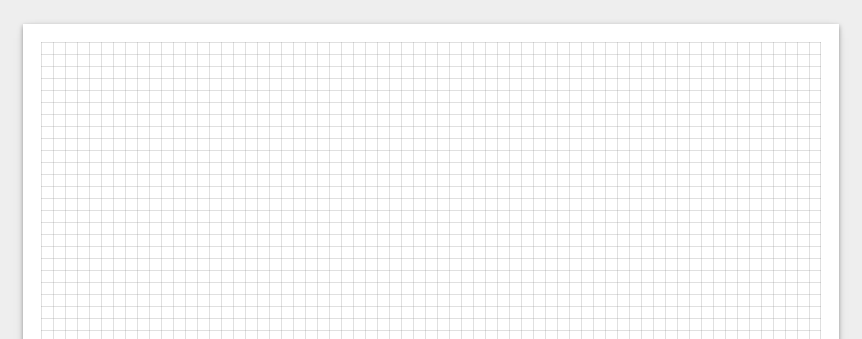
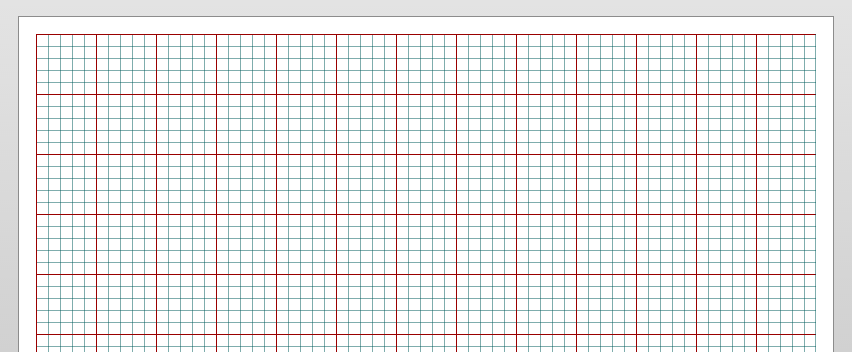
feat(minorGridColor, majorGridColor): add attributes to set grid line color for minor and major grid lines Closes #7

Changed region(s): [[0.0, 0.0295, 1.0, 1.0]]

diff --git a/lib/src/graph_paper/graph_paper.dart b/lib/src/graph_paper/graph_paper.dart
@@ -40,6 +40,18 @@ import 'package:polymer/polymer.dart';
  *    directions) before a major grid line is drawn. The origin starts in the 
  *    upper, left-hand corner of the grid. Major grid lines are represented, by 
  *    default, by a thicker line than their minor grid counterparts.
+ * 
+ *  minorGridColor [String] By default, the minor grid is `gray`. Controls the 
+ *    color of the minor grid lines. This attribute can be any color or color
+ *    designation that is valid in CSS (for example, `red`, `#990000`, 
+ *    `rgb(255,0,0)`, `rgba(255,0,0,0.2)`, `hsl(120,100%,50%)`...etc.).
+ *    Note that CMYK color functions are not supported in any current browser.
+ * 
+ *  majorGridColor [String] By default, the major grid is `gray`. Controls the 
+ *    color of the major grid lines. This attribute can be any color or color
+ *    designation that is valid in CSS (for example, `red`, `#990000`, 
+ *    `rgb(255,0,0)`, `rgba(255,0,0,0.2)`, `hsl(120,100%,50%)`...etc.).
+ *    Note that CMYK color functions are not supported in any current browser.
  */
 @CustomTag('graph-paper')
 class GraphPaper extends PolymerElement {
@@ -49,6 +61,8 @@ class GraphPaper extends PolymerElement {
   @published double gridSpacing = 12;
   @published double gridMargin = 18;
   @published int majorGridIncrement = 0;
+  @published String minorGridColor = 'gray';
+  @published String majorGridColor = 'gray';
   // TODO(adamjcook): Implement this.
   // @published bool snapToGrid = false;
   
@@ -139,7 +153,7 @@ class GraphPaper extends PolymerElement {
     // top and left-hand side of the pattern unit. The length and height of
     // these paths will be set in the changeGridSpacing() function below.
     _minorGridPath.setAttribute('fill', 'none');
-    _minorGridPath.setAttribute('stroke', 'gray');
+    _minorGridPath.setAttribute('stroke', minorGridColor);
     _minorGridPath.setAttribute('stroke-width', '1.0');
     _minorGridPattern.append(_minorGridPath);
 
@@ -166,7 +180,7 @@ class GraphPaper extends PolymerElement {
     _majorGridPattern.id = 'major-grid';
 
     _majorGridPath.setAttribute('fill', 'none');
-    _majorGridPath.setAttribute('stroke', 'gray');
+    _majorGridPath.setAttribute('stroke', majorGridColor);
     _majorGridPath.setAttribute('stroke-width', '2.0');
     _majorGridPattern.append(_majorGridPath);
 
@@ -184,11 +198,11 @@ class GraphPaper extends PolymerElement {
     // the `rect` element will have no grid lines. Border lines on the right
     // and the bottom of the grid pattern are added here.
     _rightBorderGridPath.setAttribute('fill', 'none');
-    _rightBorderGridPath.setAttribute('stroke', 'gray');
+    _rightBorderGridPath.setAttribute('stroke', minorGridColor);
     _rightBorderGridPath.setAttribute('stroke-width', '1.0');
     _svgElement.append(_rightBorderGridPath);
     _bottomBorderGridPath.setAttribute('fill', 'none');
-    _bottomBorderGridPath.setAttribute('stroke', 'gray');
+    _bottomBorderGridPath.setAttribute('stroke', minorGridColor);
     _bottomBorderGridPath.setAttribute('stroke-width', '1.0');
     _svgElement.append(_bottomBorderGridPath);
 
@@ -229,8 +243,16 @@ class GraphPaper extends PolymerElement {
     changeGridSpacing();
   }
 
-  void majorGridIncrementChanged(double oldValue, double newValue) {
+  void majorGridIncrementChanged(int oldValue, int newValue) {
     changeMajorGridIncrement();
+  }
+
+  void minorGridColorChanged(String oldValue, String newValue) {
+    changeMinorGridColor();
+  }
+
+  void majorGridColorChanged(String oldValue, String newValue) {
+    changeMajorGridColor();
   }
 
 // TODO(adamjcook): Implement this.
@@ -302,7 +324,7 @@ class GraphPaper extends PolymerElement {
     _logger.info('minor grid spacing changed to $gridSpacing');
   }
 
-  changeMajorGridIncrement() {
+  void changeMajorGridIncrement() {
     if (majorGridIncrement == 0) {
       return;
     }
@@ -316,6 +338,20 @@ class GraphPaper extends PolymerElement {
     _majorGridPathSegments.appendItem(_majorGridPath.createSvgPathSegLinetoAbs(0, (gridSpacing*majorGridIncrement)));
 
     _logger.info('major grid incremenet changed to $majorGridIncrement');
+  }
+
+  void changeMinorGridColor() {
+    _minorGridPath.setAttribute('stroke', minorGridColor);
+    _rightBorderGridPath.setAttribute('stroke', minorGridColor);
+    _bottomBorderGridPath.setAttribute('stroke', minorGridColor);
+
+    _logger.info('minor grid color changed to $minorGridColor');
+  }
+
+  void changeMajorGridColor() {
+    _majorGridPath.setAttribute('stroke', majorGridColor);
+
+    _logger.info('major grid color changed to $majorGridColor');
   }
 
 }

diff --git a/web/ui_drawer.html b/web/ui_drawer.html
@@ -3,6 +3,7 @@
 <link rel="import" href="packages/core_elements/core_icon_button.html">
 <link rel="import" href="packages/core_elements/core_toolbar.html">
 <link rel="import" href="packages/paper_elements/paper_checkbox.html">
+<link rel="import" href="packages/paper_elements/paper_input.html">
 <link rel="import" href="packages/paper_elements/paper_radio_group.html">
 <link rel="import" href="packages/paper_elements/paper_slider.html">
 
@@ -10,7 +11,9 @@
                                               layout
                                               gridSpacing
                                               gridMargin
-                                              majorGridIncrement">
+                                              majorGridIncrement
+                                              minorGridColor
+                                              majorGridColor">
   <template>
     <link rel="stylesheet" href="ui_drawer.css">
     <div id="uiControls" class="{{ {collapsed: drawerState['collapsed']} }}">
@@ -54,8 +57,19 @@
             </div>
             <div center layout>
               <div class="uiControlLabel">Major Grid Increment</div>
-              <paper-slider value="{{ majorGridIncrement }}" max="100" step="1" editable snaps></paper-slider>
+              <paper-slider value="{{ majorGridIncrement }}" max="50" step="1" editable snaps></paper-slider>
             </div>
+          </section>
+              <div center layout>
+                <div class="uiControlLabel">Minor Grid Color</div>
+                <paper-input label="gray" value="{{ minorGridColor }}"></paper-input>
+            </div>
+              <div center layout>
+                <div class="uiControlLabel">Major Grid Color</div>
+                <paper-input label="gray" value="{{ majorGridColor }}"></paper-input>
+            </div>
+          <section>
+
           </section>
           <!--<section style="width: 120px;">-->
             <!--<div center horizontal layout>-->

diff --git a/web/example_app.html b/web/example_app.html
@@ -10,7 +10,9 @@
                                                 layout
                                                 gridSpacing
                                                 gridMargin
-                                                majorGridIncrement">
+                                                majorGridIncrement
+                                                minorGridColor
+                                                majorGridColor">
   <template>
     <link rel="stylesheet" href="example_app.css">
 
@@ -18,10 +20,12 @@
     <div id="frameContainer">
       <graph-paper loggingEnabled="true"
                     paperSize="{{ paperSize }}"
-                   layout="{{ layout }}"
-                   gridSpacing="{{ gridSpacing }}"
-                   gridMargin="{{ gridMargin }}"
-                   majorGridIncrement="{{ majorGridIncrement }}"></graph-paper>
+                    layout="{{ layout }}"
+                    gridSpacing="{{ gridSpacing }}"
+                    gridMargin="{{ gridMargin }}"
+                    majorGridIncrement="{{ majorGridIncrement }}"
+                    minorGridColor="{{ minorGridColor }}"
+                    majorGridColor="{{ majorGridColor }}"></graph-paper>
       <!-- OPTIONAL: Add some visual depth to the graph paper with paper-shadow -->
       <!-- <paper-shadow z="1"></paper-shadow> --> 
     </div>
@@ -32,7 +36,9 @@
                layout="{{ layout }}"
                gridSpacing="{{ gridSpacing }}"
                gridMargin="{{ gridMargin }}"
-               majorGridIncrement="{{ majorGridIncrement }}"></ui-drawer>
+               majorGridIncrement="{{ majorGridIncrement }}"
+               minorGridColor="{{ minorGridColor }}"
+               majorGridColor="{{ majorGridColor }}"></ui-drawer>
     <!-- ===================== UI DRAWER/CONTROLS ===================== -->
 
   </template>

diff --git a/web/ui_drawer.css b/web/ui_drawer.css
@@ -1,6 +1,6 @@
-:host section > div {
+/*:host section > div {
     padding: 8px 0;
-}
+}*/
 
 :host #uiControls {
     -webkit-transition: width 0.4s ease-in-out;
@@ -49,7 +49,7 @@
 }
 
 :host #controls {
-    padding: 16px;
+    padding: 8px 16px;
     background-color: #eee;
     opacity: 1;
     -webkit-transition: opacity 0.2s ease-in-out;
@@ -68,16 +68,23 @@
 
 :host .uiControlLabel {
     white-space: nowrap;
+    font-weight: 500;
 }
 
 :host paper-slider {
     width: 100%;
 }
 
+:host paper-slider /deep/ #sliderContainer.editable {
+    margin: 0;
+}
+
 /* Width is set to 50px (default is 40px) to fit in a four-decimal place fractional value */
 :host paper-slider /deep/ .slider-input {
-                        width: 50px;
-                    }
+    width: 50px;
+    padding: 0;
+    padding-bottom: 0.75em;
+}
 
 :host paper-checkbox::shadow #ink[checked] {
     color: #4285f4;

diff --git a/web/bootstrap.dart b/web/bootstrap.dart
@@ -4,6 +4,7 @@ import 'package:core_elements/core_icon_button.dart';
 import 'package:core_elements/core_toolbar.dart';
 import 'package:polymer/polymer.dart';
 import 'package:paper_elements/paper_checkbox.dart';
+import 'package:paper_elements/paper_input.dart';
 import 'package:paper_elements/paper_radio_group.dart';
 import 'package:paper_elements/paper_shadow.dart';
 import 'package:paper_elements/paper_slider.dart';
@@ -24,6 +25,7 @@ void registerElementsWithPolymer() {
   upgradeCoreIconButton();
   upgradeCoreToolbar();
   upgradePaperCheckbox();
+  upgradePaperInput();
   upgradePaperRadioGroup();
   upgradePaperShadow();
   upgradePaperSlider();

diff --git a/lib/src/graph_paper/graph_paper.html b/lib/src/graph_paper/graph_paper.html
@@ -23,7 +23,9 @@ Styling the element:
                                                 layout
                                                 gridSpacing
                                                 gridMargin
-                                                majorGridIncrement">
+                                                majorGridIncrement
+                                                minorGridColor
+                                                majorGridColor">
   <template>
     <link rel="stylesheet" href="graph_paper.css">
     <div id="paper">

diff --git a/web/example_app.dart b/web/example_app.dart
@@ -13,6 +13,8 @@ class ExampleApp extends PolymerElement {
   @observable double gridSpacing;
   @observable double gridMargin;
   @observable int majorGridIncrement;
+  @observable String minorGridColor;
+  @observable String majorGridColor;
 //  @observable bool snapToGrid;
 
   ExampleApp.created() : super.created() {}

diff --git a/web/ui_drawer.dart b/web/ui_drawer.dart
@@ -17,6 +17,8 @@ class UiDrawer extends PolymerElement {
   @published double gridSpacing;
   @published double gridMargin;
   @published int majorGridIncrement;
+  @published String minorGridColor;
+  @published String majorGridColor;
 //  @published bool snapToGrid;
 
   UiDrawer.created() : super.created() {}

diff --git a/README.md b/README.md
@@ -17,6 +17,8 @@ graph-paper provides a customizable user interface element for generating engine
  * **gridSpacing** [double] Default is 12. Units are in pixels. Controls the spacing between two consecutive vertical and horizontal grid lines.
  * **gridMargin** [double] Default is 18. Units are in pixels. Controls the margin around the grid area.
  * **majorGridIncrement** [int] By default, a major grid is not drawn. If this attribute is not set, no major grid will be drawn. Controls the number of grid squares that should be skipped (in the vertical and horizontal directions) before a major grid line is drawn. The origin starts in the upper, left-hand corner of the grid. Major grid lines are represented, by default, by a thicker line than their minor grid counterparts.
+ * **minorGridColor** [String] By default, the minor grid is `gray`. Controls the color of the minor grid lines. This attribute can be any color or color designation that is valid in CSS (for example, `red`, `#990000`, `rgb(255,0,0)`, `rgba(255,0,0,0.2)`, `hsl(120,100%,50%)`...etc.). Note that CMYK color functions are not supported in any current browser.
+ * **majorGridColor** [String] By default, the major grid is `gray`. Controls the color of the major grid lines. This attribute can be any color or color designation that is valid in CSS (for example, `red`, `#990000`, `rgb(255,0,0)`, `rgba(255,0,0,0.2)`, `hsl(120,100%,50%)`...etc.). Note that CMYK color functions are not supported in any current browser.
    
 ## Status
 
